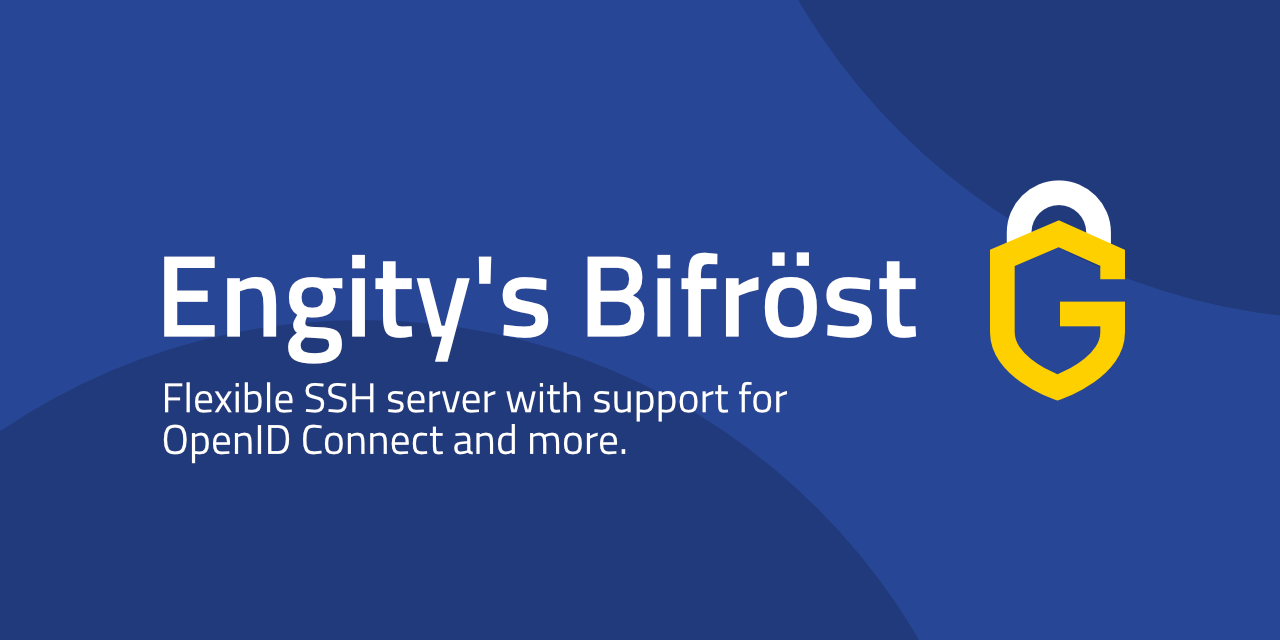
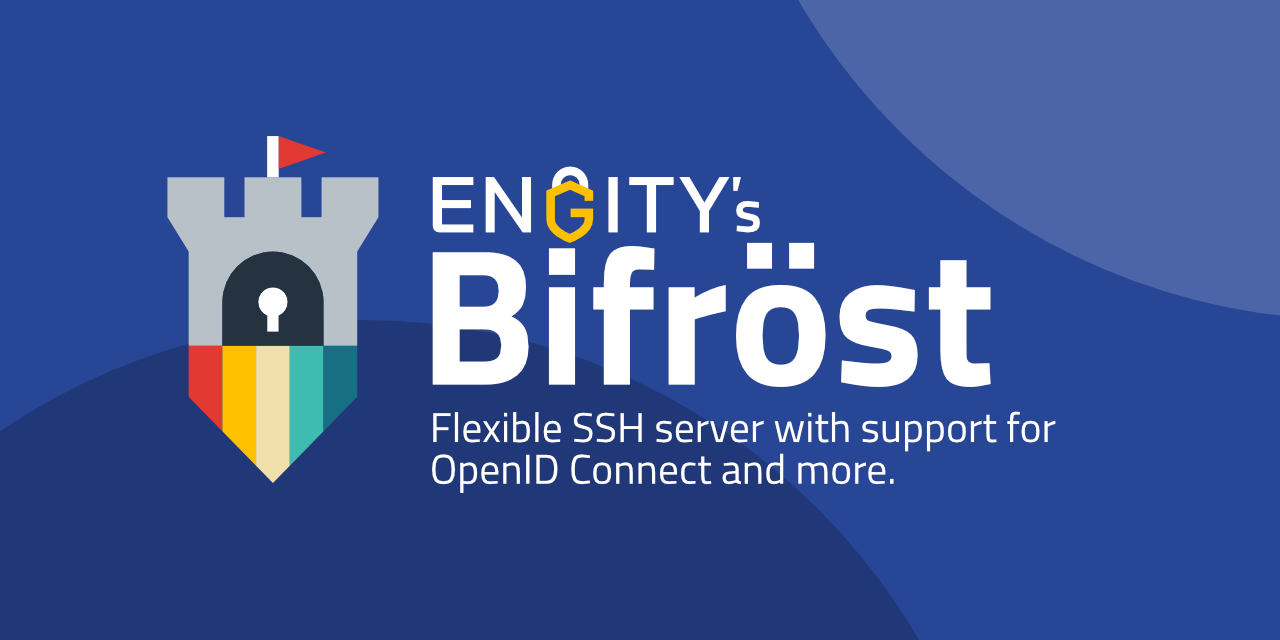
Changes

Changed region(s): [[0.125, 0.0, 1.0, 0.7812]]

diff --git a/docs/assets/extra.css b/docs/assets/extra.css
@@ -13,6 +13,26 @@
     background-color: hsla(var(--md-hue), 15%, 9%, 1);
 }
 
+.md-typeset p.bifroest-logo {
+    margin-left: 0 !important;
+    margin-right: 0 !important;
+}
+p.bifroest-logo .switchable,
+p.bifroest-logo .switchable path,
+p.bifroest-logo .switchable rect {
+    fill: #253340;
+}
+[data-md-color-scheme="slate"] p.bifroest-logo .switchable,
+[data-md-color-scheme="slate"] p.bifroest-logo .switchable path,
+[data-md-color-scheme="slate"] p.bifroest-logo .switchable rect {
+    fill: #ffffff;
+}
+[data-md-color-scheme="slate"] p.bifroest-logo .switchable.text,
+[data-md-color-scheme="slate"] p.bifroest-logo .switchable.text path,
+[data-md-color-scheme="slate"] p.bifroest-logo .switchable.text rect {
+    fill: var(--md-typeset-color);
+}
+
 [data-hint-type="required"],
 [data-hint-type="optional"],
 [data-hint-type="requirement"] {

diff --git a/docs/index.md b/docs/index.md
@@ -4,6 +4,8 @@ description: Bifröst is a highly customizable SSH server with several way to au
 
 # Engity's Bifröst
 
+![Engity's Bifröst](assets/logo-with-text.svg){. class=bifroest-logo title="Logo of Engity's Bifröst with title"}
+
 ## Welcome
 
 Bifröst (spoken as "Bee-frest"), is a highly customizable SSH server with several way to authorize a user and where and how to execute its session. It can be used as a drop-in-replacement for [OpenSSH's sshd](https://man.openbsd.org/sshd), but it was actually created with some more advanced stuff in mind; see below.

diff --git a/README.md b/README.md
@@ -1,5 +1,7 @@
 # Engity's Bifröst
 
+![Engity's Bifröst](docs/assets/logo-with-text.svg)
+
 Bifröst (spoken as "Bee-frest"), is an advanced SSH server. It can be used as a drop-in-replacement for [OpenSSH Server](https://www.openssh.com/), but it was actually created with some more advanced stuff in mind; see below.
 
 ## TOC
